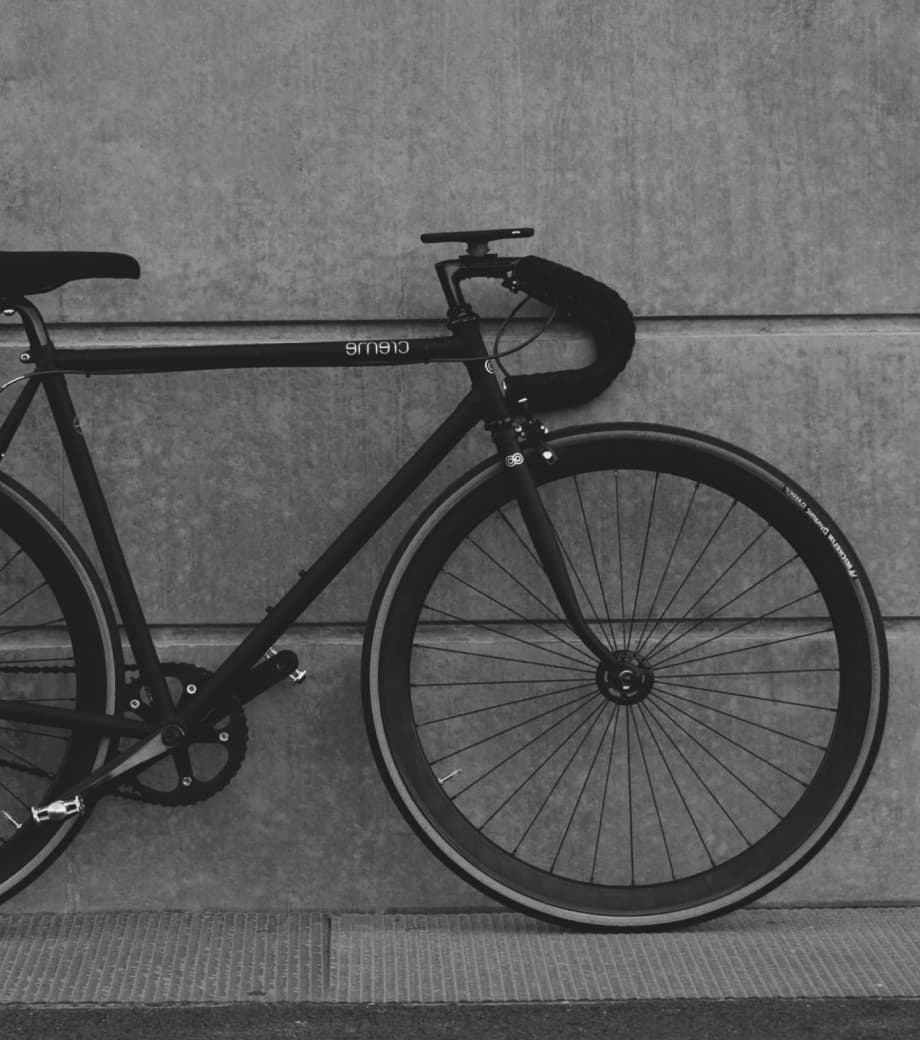
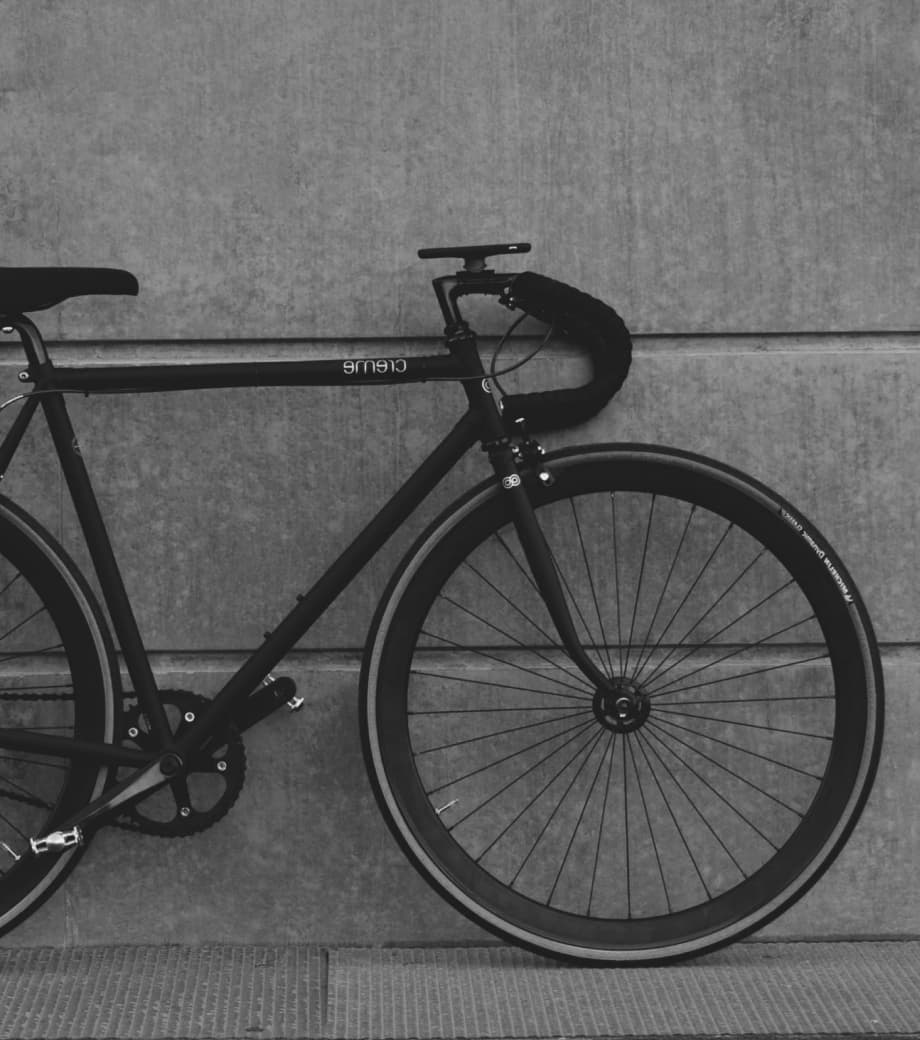
add img

Changed region(s): [[0.0, 0.2154, 1.0, 1.0], [0.213, 0.8308, 0.2435, 0.8615]]

diff --git a/index.html b/index.html
@@ -13,7 +13,7 @@
 <body>
   <header class="header-bg">
     <div class="header">
-      <a href="./"><img src="./assets/img/bikcraft 1.svg" alt="BIkcraft"></a>
+      <a href="./"><img src="./assets/img/bikcraft.svg" alt="BIkcraft"></a>
       <nav aria-label="Primária">
         <ul class="header-menu">
           <li><a href="./biciletas.html">Bicicletas</a></li>
@@ -23,6 +23,15 @@
       </nav>
     </div>
   </header>
+
+  <main class="introducao-bg">
+<div class="introducao">
+<h1>Biciletas feitas sob medida</h1>
+<p>Bicicletas elétricas de alta precisão e qualidade,  feitas sob medida para o cliente. Explore o mundo na sua velocidade com a Bikcraft.</p>
+<a href="./bicicletas.hml">Escolha a sua</a>
+<img src="./assets/img/fotos/introducao.jpg" alt="Bicileta Elétrica Preta">
+</div>
+  </main>
 </body>
 
 </html>

diff --git a/css/style.css b/css/style.css
@@ -13,6 +13,11 @@ a{
   text-decoration: none;
 }
 
+img{
+  max-width: 100%;
+  display: block;
+}
+
 .header-bg{
   background-color: #000;
 }
